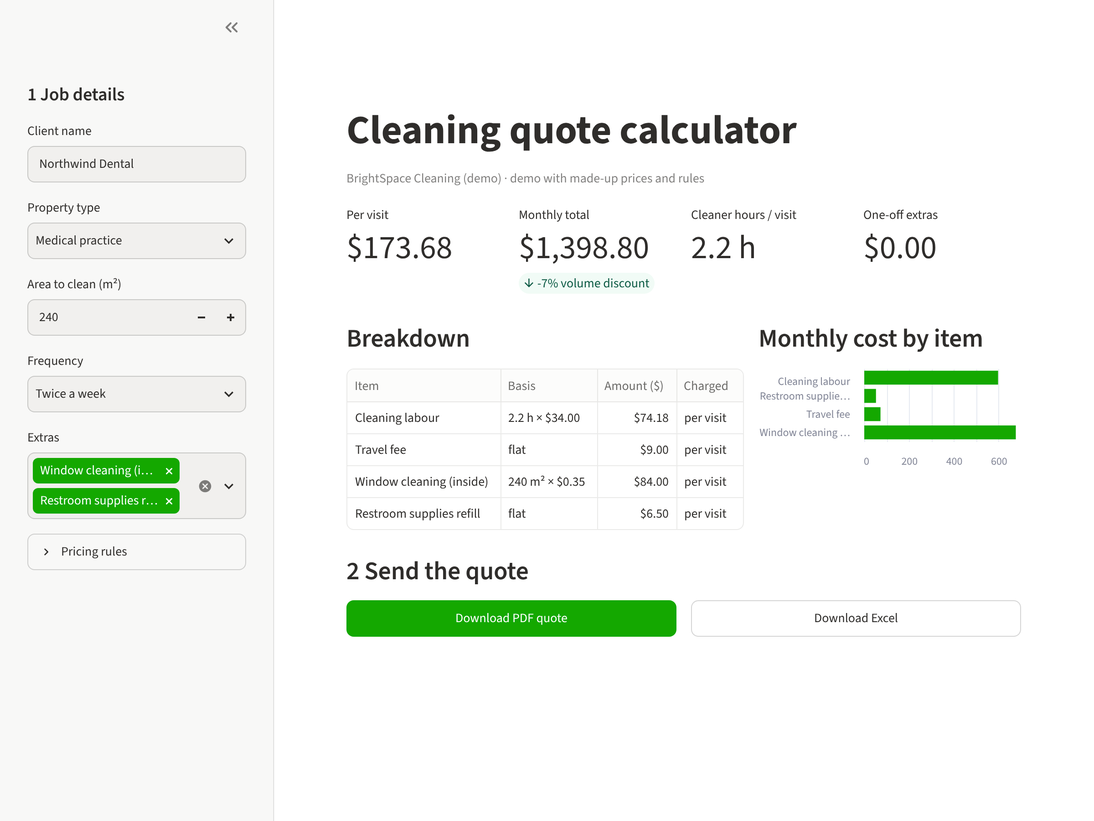
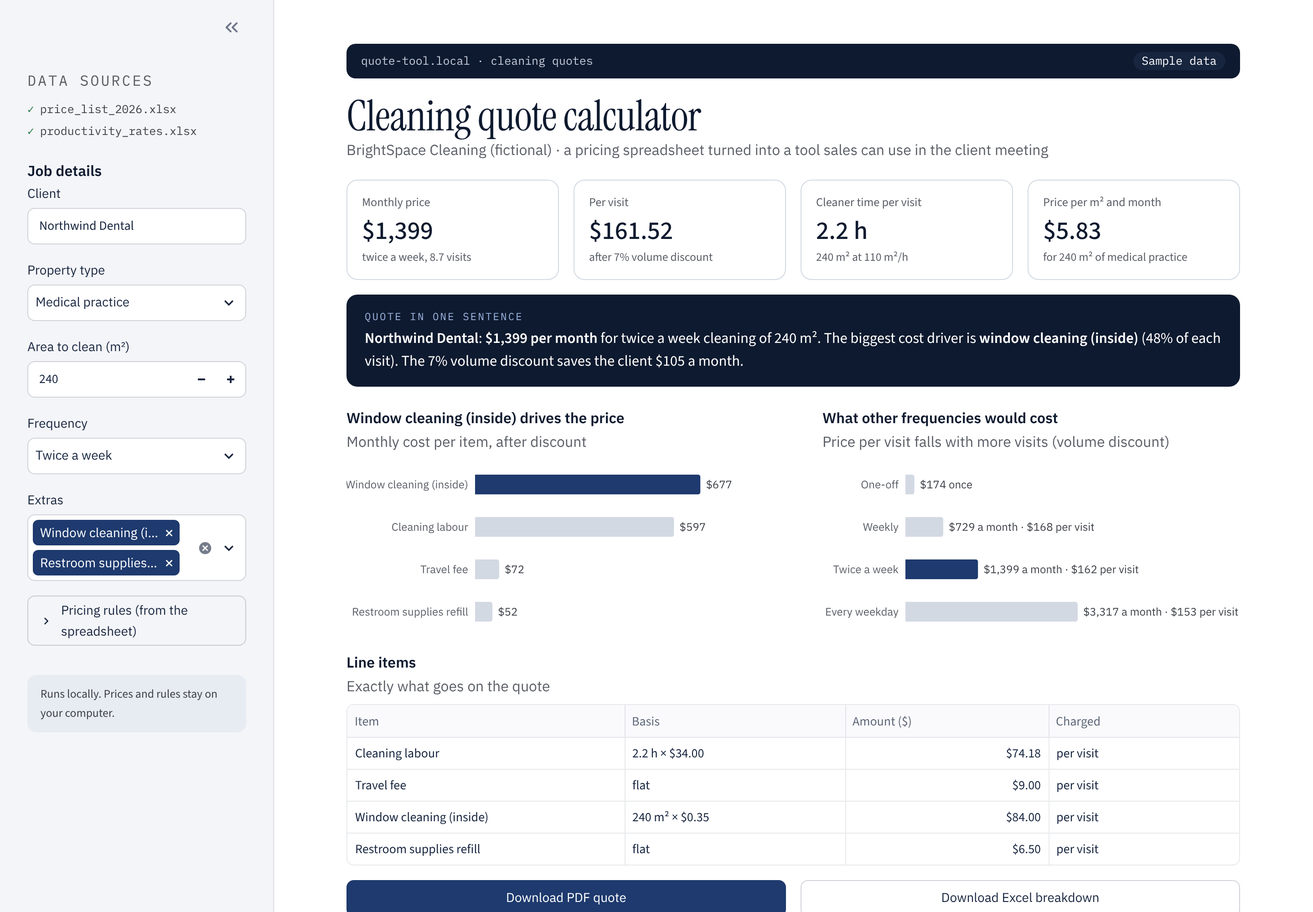
Redesign: dataphil.dev look, key message, KPIs with context, focused charts
Claude-Session: https://claude.ai/code/session_01KQChbQnHaNvjEy2cas2SEG

diff --git a/docs/index.html b/docs/index.html
@@ -16,8 +16,8 @@ mount({
   requirements: ["fpdf2", "openpyxl"],
   entrypoint: "app.py",
   files: {
-  "app.py": "\"\"\"Quote calculator demo for a fictional cleaning company.\n\nDataPhil demo - all company names, prices and rules are made up.\nRun locally:  uv run --with streamlit --with fpdf2 --with pandas --with openpyxl streamlit run app.py\n\"\"\"\nimport io\nfrom datetime import date, timedelta\n\nimport pandas as pd\nimport streamlit as st\nfrom fpdf import FPDF\n\nCOMPANY = \"BrightSpace Cleaning (demo)\"\n\n# ---- Pricing rules: in a real project these come from the client's spreadsheet ----\nPROPERTY_TYPES = {  # m\u00b2 a cleaner manages per hour\n    \"Office\": 180,\n    \"Shop / retail\": 150,\n    \"Medical practice\": 110,\n    \"Apartment building (common areas)\": 200,\n}\nFREQUENCIES = {  # visits per month\n    \"One-off\": 1,\n    \"Weekly\": 4.33,\n    \"Twice a week\": 8.66,\n    \"Every weekday\": 21.7,\n}\nEXTRAS = {  # name: (type, price)  type = \"per_visit\" | \"per_m2\" | \"one_off\"\n    \"Window cleaning (inside)\": (\"per_m2\", 0.35),\n    \"Carpet deep clean\": (\"one_off\", 180.0),\n    \"Kitchen / break room\": (\"per_visit\", 12.0),\n    \"Restroom supplies refill\": (\"per_visit\", 6.5),\n}\nDEFAULT_RATE = 34.0      # $ per cleaner hour\nMIN_PER_VISIT = 60.0     # minimum charge per visit\nTRAVEL_FEE = 9.0         # per visit\n\n\ndef volume_discount(visits_per_month: float) -> float:\n    if visits_per_month >= 20:\n        return 0.12\n    if visits_per_month >= 8:\n        return 0.07\n    if visits_per_month >= 4:\n        return 0.03\n    return 0.0\n\n\ndef calculate(area, ptype, freq, extras, rate):\n    hours = area / PROPERTY_TYPES[ptype]\n    labour = max(hours * rate, MIN_PER_VISIT)\n    lines = [(\"Cleaning labour\", f\"{hours:.1f} h \u00d7 ${rate:.2f}\", labour, \"per visit\"),\n             (\"Travel fee\", \"flat\", TRAVEL_FEE, \"per visit\")]\n    one_off = 0.0\n    for name in extras:\n        kind, price = EXTRAS[name]\n        if kind == \"per_m2\":\n            lines.append((name, f\"{area:.0f} m\u00b2 \u00d7 ${price:.2f}\", area * price, \"per visit\"))\n        elif kind == \"per_visit\":\n            lines.append((name, \"flat\", price, \"per visit\"))\n        else:\n            lines.append((name, \"once\", price, \"one-off\"))\n            one_off += price\n    per_visit = sum(l[2] for l in lines if l[3] == \"per visit\")\n    visits = FREQUENCIES[freq]\n    disc = volume_discount(visits)\n    monthly = per_visit * visits * (1 - disc)\n    df = pd.DataFrame(lines, columns=[\"Item\", \"Basis\", \"Amount ($)\", \"Charged\"])\n    return df, hours, per_visit, visits, disc, monthly, one_off\n\n\ndef pdf_quote(client, ptype, area, freq, df, per_visit, visits, disc, monthly, one_off) -> bytes:\n    pdf = FPDF()\n    pdf.add_page()\n    pdf.set_font(\"Helvetica\", \"B\", 18)\n    pdf.cell(0, 10, COMPANY, new_x=\"LMARGIN\", new_y=\"NEXT\")\n    pdf.set_font(\"Helvetica\", \"\", 10)\n    pdf.cell(0, 6, f\"Quote for: {client or 'Client'}    Date: {date.today():%d %b %Y}    \"\n                   f\"Valid until: {date.today() + timedelta(days=30):%d %b %Y}\", new_x=\"LMARGIN\", new_y=\"NEXT\")\n    pdf.cell(0, 6, f\"{ptype}, {area:.0f} m\u00b2, {freq.lower()}\", new_x=\"LMARGIN\", new_y=\"NEXT\")\n    pdf.ln(4)\n    pdf.set_font(\"Helvetica\", \"B\", 10)\n    for w, h in zip((80, 50, 30, 30), (\"Item\", \"Basis\", \"Amount\", \"Charged\")):\n        pdf.cell(w, 8, h, border=\"B\")\n    pdf.ln()\n    pdf.set_font(\"Helvetica\", \"\", 10)\n    for _, r in df.iterrows():\n        pdf.cell(80, 7, r[\"Item\"])\n        pdf.cell(50, 7, r[\"Basis\"].replace(\"\u00d7\", \"x\"))\n        pdf.cell(30, 7, f\"${r['Amount ($)']:.2f}\", align=\"R\")\n        pdf.cell(30, 7, r[\"Charged\"])\n        pdf.ln()\n    pdf.ln(4)\n    pdf.set_font(\"Helvetica\", \"B\", 11)\n    pdf.cell(0, 7, f\"Per visit: ${per_visit:.2f}   x {visits:.1f} visits/month   \"\n                   f\"volume discount {disc:.0%}\", new_x=\"LMARGIN\", new_y=\"NEXT\")\n    pdf.set_font(\"Helvetica\", \"B\", 14)\n    pdf.cell(0, 9, f\"Monthly total: ${monthly:,.2f}\", new_x=\"LMARGIN\", new_y=\"NEXT\")\n    if one_off:\n        pdf.set_font(\"Helvetica\", \"\", 11)\n        pdf.cell(0, 7, f\"Plus one-off services: ${one_off:,.2f}\", new_x=\"LMARGIN\", new_y=\"NEXT\")\n    pdf.ln(6)\n    pdf.set_font(\"Helvetica\", \"I\", 8)\n    pdf.multi_cell(0, 5, \"Demo quote with made-up prices. Built by DataPhil as an example of a \"\n                         \"spreadsheet turned into a simple web tool.\")\n    return bytes(pdf.output())\n\n\ndef excel_file(df, summary: dict) -> bytes:\n    buf = io.BytesIO()\n    with pd.ExcelWriter(buf, engine=\"openpyxl\") as xw:\n        df.to_excel(xw, sheet_name=\"Breakdown\", index=False)\n        pd.DataFrame(list(summary.items()), columns=[\"Key\", \"Value\"]).to_excel(\n            xw, sheet_name=\"Summary\", index=False)\n    return buf.getvalue()\n\n\n# ---------------------------------- UI ----------------------------------\nst.set_page_config(page_title=\"Quote calculator (demo)\", page_icon=\"\ud83e\uddfd\", layout=\"wide\")\nst.title(\"Cleaning quote calculator\")\nst.caption(f\"{COMPANY} \u00b7 demo with made-up prices and rules\")\n\nwith st.sidebar:\n    st.header(\"1  Job details\")\n    client = st.text_input(\"Client name\", \"Northwind Dental\")\n    ptype = st.selectbox(\"Property type\", list(PROPERTY_TYPES), index=2)\n    area = st.number_input(\"Area to clean (m\u00b2)\", 20, 5000, 240, step=10)\n    freq = st.selectbox(\"Frequency\", list(FREQUENCIES), index=2)\n    extras = st.multiselect(\"Extras\", list(EXTRAS), default=[\"Window cleaning (inside)\", \"Restroom supplies refill\"])\n    with st.expander(\"Pricing rules\"):\n        rate = st.slider(\"Cleaner rate ($/h)\", 25.0, 50.0, DEFAULT_RATE, 0.5)\n        st.write(f\"Minimum per visit: ${MIN_PER_VISIT:.0f} \u00b7 travel fee ${TRAVEL_FEE:.0f}\")\n        st.write(\"Volume discount: 3 % from weekly, 7 % from twice a week, 12 % daily\")\n\ndf, hours, per_visit, visits, disc, monthly, one_off = calculate(area, ptype, freq, extras, rate)\n\nc1, c2, c3, c4 = st.columns(4)\nc1.metric(\"Per visit\", f\"${per_visit:,.2f}\")\nc2.metric(\"Monthly total\", f\"${monthly:,.2f}\", f\"-{disc:.0%} volume discount\" if disc else None, delta_color=\"inverse\")\nc3.metric(\"Cleaner hours / visit\", f\"{hours:.1f} h\")\nc4.metric(\"One-off extras\", f\"${one_off:,.2f}\")\n\nleft, right = st.columns([3, 2])\nwith left:\n    st.subheader(\"Breakdown\")\n    st.dataframe(df, hide_index=True, use_container_width=True,\n                 column_config={\"Amount ($)\": st.column_config.NumberColumn(format=\"$%.2f\")})\nwith right:\n    st.subheader(\"Monthly cost by item\")\n    per_month = df[df[\"Charged\"] == \"per visit\"].set_index(\"Item\")[\"Amount ($)\"] * visits * (1 - disc)\n    st.bar_chart(per_month, horizontal=True, color=\"#14a800\")\n\nst.subheader(\"2  Send the quote\")\nb1, b2 = st.columns(2)\nb1.download_button(\"Download PDF quote\", pdf_quote(client, ptype, area, freq, df, per_visit, visits,\n                                                    disc, monthly, one_off),\n                   file_name=f\"quote_{client.replace(' ', '_') or 'client'}.pdf\", mime=\"application/pdf\",\n                   type=\"primary\", use_container_width=True)\nb2.download_button(\"Download Excel\", excel_file(df, {\"Client\": client, \"Property\": ptype, \"Area m2\": area,\n                                                     \"Frequency\": freq, \"Per visit $\": round(per_visit, 2),\n                                                     \"Monthly $\": round(monthly, 2), \"One-off $\": one_off}),\n                   file_name=\"quote_breakdown.xlsx\", use_container_width=True)\n",
-  ".streamlit/config.toml": "[theme]\nprimaryColor = \"#14a800\"\nbase = \"light\"\n\n[client]\ntoolbarMode = \"minimal\"\n\n[browser]\ngatherUsageStats = false\n"
+  "app.py": "\"\"\"Quote calculator demo for a fictional cleaning company.\n\nDataPhil demo - all company names, prices and rules are made up.\nRun locally:  uv run --with streamlit --with fpdf2 --with pandas --with openpyxl streamlit run app.py\n\"\"\"\nimport html\nimport io\nfrom datetime import date, timedelta\n\nimport altair as alt\nimport pandas as pd\nimport streamlit as st\nfrom fpdf import FPDF\n\nCOMPANY = \"BrightSpace Cleaning (demo)\"\n\n# ---- Pricing rules: in a real project these come from the client's spreadsheet ----\nPROPERTY_TYPES = {  # m\u00b2 a cleaner manages per hour\n    \"Office\": 180,\n    \"Shop / retail\": 150,\n    \"Medical practice\": 110,\n    \"Apartment building (common areas)\": 200,\n}\nFREQUENCIES = {  # visits per month\n    \"One-off\": 1,\n    \"Weekly\": 4.33,\n    \"Twice a week\": 8.66,\n    \"Every weekday\": 21.7,\n}\nEXTRAS = {  # name: (type, price)  type = \"per_visit\" | \"per_m2\" | \"one_off\"\n    \"Window cleaning (inside)\": (\"per_m2\", 0.35),\n    \"Carpet deep clean\": (\"one_off\", 180.0),\n    \"Kitchen / break room\": (\"per_visit\", 12.0),\n    \"Restroom supplies refill\": (\"per_visit\", 6.5),\n}\nDEFAULT_RATE = 34.0      # $ per cleaner hour\nMIN_PER_VISIT = 60.0     # minimum charge per visit\nTRAVEL_FEE = 9.0         # per visit\n\n\ndef volume_discount(visits_per_month: float) -> float:\n    if visits_per_month >= 20:\n        return 0.12\n    if visits_per_month >= 8:\n        return 0.07\n    if visits_per_month >= 4:\n        return 0.03\n    return 0.0\n\n\ndef calculate(area, ptype, freq, extras, rate):\n    hours = area / PROPERTY_TYPES[ptype]\n    labour = max(hours * rate, MIN_PER_VISIT)\n    lines = [(\"Cleaning labour\", f\"{hours:.1f} h \u00d7 ${rate:.2f}\", labour, \"per visit\"),\n             (\"Travel fee\", \"flat\", TRAVEL_FEE, \"per visit\")]\n    one_off = 0.0\n    for name in extras:\n        kind, price = EXTRAS[name]\n        if kind == \"per_m2\":\n            lines.append((name, f\"{area:.0f} m\u00b2 \u00d7 ${price:.2f}\", area * price, \"per visit\"))\n        elif kind == \"per_visit\":\n            lines.append((name, \"flat\", price, \"per visit\"))\n        else:\n            lines.append((name, \"once\", price, \"one-off\"))\n            one_off += price\n    per_visit = sum(l[2] for l in lines if l[3] == \"per visit\")\n    visits = FREQUENCIES[freq]\n    disc = volume_discount(visits)\n    monthly = per_visit * visits * (1 - disc)\n    df = pd.DataFrame(lines, columns=[\"Item\", \"Basis\", \"Amount ($)\", \"Charged\"])\n    return df, hours, per_visit, visits, disc, monthly, one_off\n\n\ndef pdf_quote(client, ptype, area, freq, df, per_visit, visits, disc, monthly, one_off) -> bytes:\n    pdf = FPDF()\n    pdf.add_page()\n    pdf.set_font(\"Helvetica\", \"B\", 18)\n    pdf.cell(0, 10, COMPANY, new_x=\"LMARGIN\", new_y=\"NEXT\")\n    pdf.set_font(\"Helvetica\", \"\", 10)\n    pdf.cell(0, 6, f\"Quote for: {client or 'Client'}    Date: {date.today():%d %b %Y}    \"\n                   f\"Valid until: {date.today() + timedelta(days=30):%d %b %Y}\", new_x=\"LMARGIN\", new_y=\"NEXT\")\n    pdf.cell(0, 6, f\"{ptype}, {area:.0f} m\u00b2, {freq.lower()}\", new_x=\"LMARGIN\", new_y=\"NEXT\")\n    pdf.ln(4)\n    pdf.set_font(\"Helvetica\", \"B\", 10)\n    for w, h in zip((80, 50, 30, 30), (\"Item\", \"Basis\", \"Amount\", \"Charged\")):\n        pdf.cell(w, 8, h, border=\"B\")\n    pdf.ln()\n    pdf.set_font(\"Helvetica\", \"\", 10)\n    for _, r in df.iterrows():\n        pdf.cell(80, 7, r[\"Item\"])\n        pdf.cell(50, 7, r[\"Basis\"].replace(\"\u00d7\", \"x\"))\n        pdf.cell(30, 7, f\"${r['Amount ($)']:.2f}\", align=\"R\")\n        pdf.cell(30, 7, r[\"Charged\"])\n        pdf.ln()\n    pdf.ln(4)\n    pdf.set_font(\"Helvetica\", \"B\", 11)\n    pdf.cell(0, 7, f\"Per visit: ${per_visit:.2f}   x {visits:.1f} visits/month   \"\n                   f\"volume discount {disc:.0%}\", new_x=\"LMARGIN\", new_y=\"NEXT\")\n    pdf.set_font(\"Helvetica\", \"B\", 14)\n    pdf.cell(0, 9, f\"Monthly total: ${monthly:,.2f}\", new_x=\"LMARGIN\", new_y=\"NEXT\")\n    if one_off:\n        pdf.set_font(\"Helvetica\", \"\", 11)\n        pdf.cell(0, 7, f\"Plus one-off services: ${one_off:,.2f}\", new_x=\"LMARGIN\", new_y=\"NEXT\")\n    pdf.ln(6)\n    pdf.set_font(\"Helvetica\", \"I\", 8)\n    pdf.multi_cell(0, 5, \"Demo quote with made-up prices. Built by DataPhil as an example of a \"\n                         \"spreadsheet turned into a simple web tool.\")\n    return bytes(pdf.output())\n\n\ndef excel_file(df, summary: dict) -> bytes:\n    buf = io.BytesIO()\n    with pd.ExcelWriter(buf, engine=\"openpyxl\") as xw:\n        df.to_excel(xw, sheet_name=\"Breakdown\", index=False)\n        pd.DataFrame(list(summary.items()), columns=[\"Key\", \"Value\"]).to_excel(\n            xw, sheet_name=\"Summary\", index=False)\n    return buf.getvalue()\n\n\n# ---------------------------------- look & feel (same palette as dataphil.dev) ----------------------------------\nNAVY, INK, BODY, MUTED = \"#1E3A6E\", \"#0E1A2F\", \"#3D4047\", \"#5A5E66\"\nGREY, LIGHT, PAPER, WARN = \"#9AA3B2\", \"#D3D9E3\", \"#F4F5F8\", \"#B4531A\"\n\nCSS = \"\"\"<style>\n@import url('https://fonts.googleapis.com/css2?family=IBM+Plex+Mono:wght@400;500&family=IBM+Plex+Sans:wght@400;500;600&family=Instrument+Serif&display=swap');\nhtml, body, .stApp, .stMarkdown, p, label, button, input, textarea, select, li {font-family:'IBM Plex Sans',system-ui,sans-serif;}\n.block-container {padding-top:2rem; max-width:1200px;}\nh1 {font-family:'Instrument Serif',Georgia,serif !important; font-weight:400 !important; font-size:2.9rem !important;\n    color:#0E1A2F !important; letter-spacing:-.01em; line-height:1.05 !important; padding:0 !important;}\n.dp-bar {font-family:'IBM Plex Mono',monospace; font-size:.78rem; color:#C3CCDB; background:#0E1A2F;\n    padding:.55rem 1rem; border-radius:10px; display:flex; justify-content:space-between; margin-bottom:1.1rem;}\n.dp-bar b {font-weight:400; color:#fff; background:#17253F; border-radius:20px; padding:0 .6rem;}\n.dp-lead {color:#5A5E66; font-size:1rem; margin:.2rem 0 1.2rem;}\n.dp-kpi {background:#fff; border:1px solid #D3D9E3; border-radius:12px; padding:.85rem 1rem; height:100%;}\n.dp-kpi .l {font-size:.82rem; color:#5A5E66;}\n.dp-kpi .v {font-size:1.75rem; font-weight:500; color:#0E1A2F; line-height:1.25; margin:.15rem 0;}\n.dp-kpi .c {font-size:.8rem; color:#5A5E66;} .dp-kpi .c.warn {color:#B4531A;}\n.dp-msg {background:#0E1A2F; color:#fff; border-radius:12px; padding:1rem 1.25rem; margin:1rem 0 1.4rem; font-size:1.02rem; line-height:1.5;}\n.dp-msg .k {display:block; font-family:'IBM Plex Mono',monospace; font-size:.7rem; letter-spacing:.14em; color:#9DB6E3; margin-bottom:.2rem;}\n.dp-h {font-weight:600; font-size:1.08rem; color:#0E1A2F; margin:.6rem 0 0;}\n.dp-sub {font-size:.84rem; color:#5A5E66; margin:0 0 .4rem;}\n.dp-steps {display:grid; grid-template-columns:repeat(3,1fr); gap:12px; margin-top:1.4rem;}\n.dp-steps div {border:1px solid #D3D9E3; border-radius:12px; padding:.9rem 1rem; font-size:.88rem; color:#3D4047; background:#fff;}\n.dp-steps div.r {background:#1E3A6E; color:#fff; border-color:#1E3A6E;}\n.dp-steps span {display:block; font-family:'IBM Plex Mono',monospace; font-size:.68rem; letter-spacing:.14em; color:#5A5E66; margin-bottom:.3rem;}\n.dp-steps div.r span {color:#9DB6E3;}\n.dp-src {font-family:'IBM Plex Mono',monospace; font-size:.78rem; color:#3D4047; line-height:1.9;}\n.dp-src i {color:#2E7D4F; font-style:normal; margin-right:.4rem;}\n.dp-note {background:#E7EBF2; border-radius:10px; padding:.7rem .9rem; font-size:.8rem; color:#3D4047; margin-top:1rem;}\n@media (max-width:700px){ .dp-steps {grid-template-columns:1fr;} h1 {font-size:2.2rem !important;} }\n</style>\"\"\"\n\n\ndef esc(s) -> str:\n    return html.escape(str(s))\n\n\ndef bar(left: str, right: str = \"Sample data\"):\n    st.markdown(f'<div class=\"dp-bar\"><span>{esc(left)}</span><b>{esc(right)}</b></div>', unsafe_allow_html=True)\n\n\ndef kpi(col, label, value, context=\"\", warn=False):\n    col.markdown(f'<div class=\"dp-kpi\"><div class=\"l\">{esc(label)}</div><div class=\"v\">{esc(value)}</div>'\n                 f'<div class=\"c{\" warn\" if warn else \"\"}\">{\"\u26a0 \" if warn else \"\"}{esc(context)}</div></div>',\n                 unsafe_allow_html=True)\n\n\ndef message(text_html: str, label=\"MESSAGE FOR THE MEETING\"):\n    st.markdown(f'<div class=\"dp-msg\"><span class=\"k\">{label}</span>{text_html}</div>', unsafe_allow_html=True)\n\n\ndef heading(title: str, sub: str = \"\"):\n    st.markdown(f'<p class=\"dp-h\">{esc(title)}</p>' + (f'<p class=\"dp-sub\">{esc(sub)}</p>' if sub else \"\"),\n                unsafe_allow_html=True)\n\n\ndef sources(files):\n    st.markdown(\"<p class='dp-sub' style='letter-spacing:.12em;font-family:IBM Plex Mono'>DATA SOURCES</p>\"\n                + \"\".join(f\"<div class='dp-src'><i>\u2713</i>{esc(f)}</div>\" for f in files), unsafe_allow_html=True)\n\n\ndef steps(before: str, tool: str, result: str):\n    st.markdown(f'<div class=\"dp-steps\"><div><span>1 \u00b7 BEFORE</span>{before}</div><div><span>2 \u00b7 THE TOOL</span>{tool}'\n                f'</div><div class=\"r\"><span>3 \u00b7 RESULT</span>{result}</div></div>', unsafe_allow_html=True)\n\n\ndef chart_style(chart):\n    return (chart.properties(padding={\"left\": 8, \"right\": 8, \"top\": 4, \"bottom\": 4}).configure_view(strokeWidth=0)\n            .configure_axis(labelColor=MUTED, titleColor=MUTED, labelFont=\"IBM Plex Sans\", titleFont=\"IBM Plex Sans\",\n                            labelFontSize=12, titleFontSize=12, gridColor=\"#EEF1F5\", domainColor=LIGHT, tickColor=LIGHT)\n            .configure_text(font=\"IBM Plex Sans\"))\n\n\n# ---------------------------------- UI ----------------------------------\nst.set_page_config(page_title=\"Quote calculator (demo)\", page_icon=\"\ud83e\uddfd\", layout=\"wide\")\nst.markdown(CSS, unsafe_allow_html=True)\n\nwith st.sidebar:\n    sources([\"price_list_2026.xlsx\", \"productivity_rates.xlsx\"])\n    st.markdown(\"<p class='dp-h' style='margin-top:1.2rem'>Job details</p>\", unsafe_allow_html=True)\n    client = st.text_input(\"Client\", \"Northwind Dental\")\n    ptype = st.selectbox(\"Property type\", list(PROPERTY_TYPES), index=2)\n    area = st.number_input(\"Area to clean (m\u00b2)\", 20, 5000, 240, step=10)\n    freq = st.selectbox(\"Frequency\", list(FREQUENCIES), index=2)\n    extras = st.multiselect(\"Extras\", list(EXTRAS), default=[\"Window cleaning (inside)\", \"Restroom supplies refill\"])\n    with st.expander(\"Pricing rules (from the spreadsheet)\"):\n        rate = st.slider(\"Cleaner rate ($/h)\", 25.0, 50.0, DEFAULT_RATE, 0.5)\n        st.caption(f\"Minimum ${MIN_PER_VISIT:.0f} per visit \u00b7 travel fee ${TRAVEL_FEE:.0f} \u00b7 volume discount \"\n                   \"3 % weekly, 7 % twice a week, 12 % daily\")\n    st.markdown(\"<div class='dp-note'>Runs locally. Prices and rules stay on your computer.</div>\",\n                unsafe_allow_html=True)\n\ndf, hours, per_visit, visits, disc, monthly, one_off = calculate(area, ptype, freq, extras, rate)\nlabour_hit_min = hours * rate < MIN_PER_VISIT\n\n# the story: what drives the price, and what would another frequency cost?\npv = df[df[\"Charged\"] == \"per visit\"].copy()\npv[\"Monthly\"] = pv[\"Amount ($)\"] * visits * (1 - disc)\npv[\"Share\"] = pv[\"Amount ($)\"] / per_visit\ntop = pv.sort_values(\"Monthly\", ascending=False).iloc[0]\nalt_rows = []\nfor f, v in FREQUENCIES.items():\n    _, _, pvv, vv, dd, mm, _ = calculate(area, ptype, f, extras, rate)\n    alt_rows.append({\"Frequency\": f, \"Monthly\": mm, \"Per visit\": pvv * (1 - dd), \"Chosen\": f == freq})\nfreq_df = pd.DataFrame(alt_rows)\nper_visit_net = per_visit * (1 - disc)\n\nbar(\"quote-tool.local \u00b7 cleaning quotes\")\nst.title(\"Cleaning quote calculator\")\nst.markdown(f\"<p class='dp-lead'>BrightSpace Cleaning (fictional) \u00b7 a pricing spreadsheet turned into a tool \"\n            f\"sales can use in the client meeting</p>\", unsafe_allow_html=True)\n\nk1, k2, k3, k4 = st.columns(4)\nkpi(k1, \"Monthly price\", f\"${monthly:,.0f}\", f\"{freq.lower()}, {visits:.1f} visits\")\nkpi(k2, \"Per visit\", f\"${per_visit_net:,.2f}\",\n    f\"after {disc:.0%} volume discount\" if disc else \"no volume discount at this frequency\")\nkpi(k3, \"Cleaner time per visit\", f\"{hours:.1f} h\",\n    f\"minimum charge of ${MIN_PER_VISIT:.0f} applies\" if labour_hit_min else f\"{area} m\u00b2 at {PROPERTY_TYPES[ptype]} m\u00b2/h\",\n    warn=labour_hit_min)\nkpi(k4, \"Price per m\u00b2 and month\", f\"${monthly / area:,.2f}\",\n    f\"plus ${one_off:,.0f} one-off services\" if one_off else f\"for {area} m\u00b2 of {ptype.lower()}\")\n\nweekly = freq_df.set_index(\"Frequency\").loc[\"Weekly\", \"Per visit\"] if freq != \"Weekly\" else None\nmsg = (f\"<b>{esc(client) or 'This client'}</b>: <b>${monthly:,.0f} per month</b> for {freq.lower()} cleaning of \"\n       f\"{area} m\u00b2. The biggest cost driver is <b>{esc(top['Item'].lower())}</b> ({top['Share']:.0%} of each visit).\")\nif disc:\n    msg += f\" The {disc:.0%} volume discount saves the client ${per_visit * visits * disc:,.0f} a month.\"\nif labour_hit_min:\n    msg += \" The job is so small that the minimum charge applies; offer a lower frequency or bundle sites.\"\nmessage(msg, \"QUOTE IN ONE SENTENCE\")\n\nleft, right = st.columns([1, 1], gap=\"large\")\nwith left:\n    heading(f\"{top['Item']} drives the price\", \"Monthly cost per item, after discount\")\n    order = pv.sort_values(\"Monthly\", ascending=False)[\"Item\"].tolist()\n    base = alt.Chart(pv).encode(\n        y=alt.Y(\"Item:N\", sort=order, title=None, axis=alt.Axis(labelLimit=220, ticks=False, domain=False, labelPadding=8)),\n        x=alt.X(\"Monthly:Q\", title=None, axis=None, scale=alt.Scale(domain=[0, pv[\"Monthly\"].max() * 1.25])))\n    bars = base.mark_bar(cornerRadiusEnd=3, height=22).encode(\n        color=alt.condition(alt.datum.Item == top[\"Item\"], alt.value(NAVY), alt.value(LIGHT)),\n        tooltip=[alt.Tooltip(\"Item\"), alt.Tooltip(\"Monthly\", format=\"$,.0f\")])\n    labels = base.mark_text(align=\"left\", dx=6, color=BODY, fontSize=12).encode(text=alt.Text(\"Monthly:Q\", format=\"$,.0f\"))\n    st.altair_chart(chart_style((bars + labels).properties(height=46 * len(pv) + 10)), use_container_width=True)\nwith right:\n    cheaper = freq_df[(freq_df[\"Per visit\"] < per_visit_net - 0.01)]\n    sub = (\"Price per visit falls with more visits (volume discount)\" if len(cheaper)\n           else \"This is already the lowest price per visit\")\n    heading(\"What other frequencies would cost\", sub)\n    fb = alt.Chart(freq_df).encode(\n        y=alt.Y(\"Frequency:N\", sort=list(FREQUENCIES), title=None, axis=alt.Axis(labelLimit=220, ticks=False, domain=False, labelPadding=8)),\n        x=alt.X(\"Monthly:Q\", title=None, axis=None, scale=alt.Scale(domain=[0, freq_df[\"Monthly\"].max() * 1.9])))\n    fbars = fb.mark_bar(cornerRadiusEnd=3, height=22).encode(\n        color=alt.condition(alt.datum.Chosen, alt.value(NAVY), alt.value(LIGHT)),\n        tooltip=[alt.Tooltip(\"Frequency\"), alt.Tooltip(\"Monthly\", format=\"$,.0f\"),\n                 alt.Tooltip(\"Per visit\", format=\"$,.2f\")])\n    ftext = fb.mark_text(align=\"left\", dx=6, color=BODY, fontSize=12).encode(\n        text=alt.Text(\"label:N\")).transform_calculate(\n        label=\"datum.Frequency == 'One-off' ? format(datum.Monthly, '$,.0f') + ' once' : format(datum.Monthly, '$,.0f') + ' a month  \u00b7  ' + format(datum['Per visit'], '$,.0f') + ' per visit'\")\n    st.altair_chart(chart_style((fbars + ftext).properties(height=46 * len(freq_df) + 10)),\n                    use_container_width=True)\n\nheading(\"Line items\", \"Exactly what goes on the quote\")\nst.dataframe(df, hide_index=True, use_container_width=True,\n             column_config={\"Amount ($)\": st.column_config.NumberColumn(format=\"$%.2f\")})\n\nb1, b2 = st.columns(2)\nb1.download_button(\"Download PDF quote\", pdf_quote(client, ptype, area, freq, df, per_visit, visits,\n                                                    disc, monthly, one_off),\n                   file_name=f\"quote_{client.replace(' ', '_') or 'client'}.pdf\", mime=\"application/pdf\",\n                   type=\"primary\", use_container_width=True)\nb2.download_button(\"Download Excel breakdown\", excel_file(df, {\"Client\": client, \"Property\": ptype, \"Area m2\": area,\n                                                               \"Frequency\": freq, \"Per visit $\": round(per_visit, 2),\n                                                               \"Monthly $\": round(monthly, 2), \"One-off $\": one_off}),\n                   file_name=\"quote_breakdown.xlsx\", use_container_width=True)\n\nsteps(\"Prices lived in a spreadsheet only one person understood. Every quote took a call to the office.\",\n      \"Reads the same rules, asks five questions, and produces the quote, the PDF and the Excel file.\",\n      \"Sales quotes on the spot. Try it: switch to <b>every weekday</b> and see the discount kick in.\")\n",
+  ".streamlit/config.toml": "[theme]\nprimaryColor = \"#1E3A6E\"\nbase = \"light\"\nbackgroundColor = \"#FFFFFF\"\nsecondaryBackgroundColor = \"#F4F5F8\"\ntextColor = \"#17253F\"\n\n[client]\ntoolbarMode = \"minimal\"\n\n[browser]\ngatherUsageStats = false\n"
 }
 }, document.getElementById("root"));
 </script>

diff --git a/app.py b/app.py
@@ -3,9 +3,11 @@
 DataPhil demo - all company names, prices and rules are made up.
 Run locally:  uv run --with streamlit --with fpdf2 --with pandas --with openpyxl streamlit run app.py
 """
+import html
 import io
 from datetime import date, timedelta
 
+import altair as alt
 import pandas as pd
 import streamlit as st
 from fpdf import FPDF
@@ -115,48 +117,182 @@ def excel_file(df, summary: dict) -> bytes:
     return buf.getvalue()
 
 
+# ---------------------------------- look & feel (same palette as dataphil.dev) ----------------------------------
+NAVY, INK, BODY, MUTED = "#1E3A6E", "#0E1A2F", "#3D4047", "#5A5E66"
+GREY, LIGHT, PAPER, WARN = "#9AA3B2", "#D3D9E3", "#F4F5F8", "#B4531A"
+
+CSS = """<style>
+@import url('https://fonts.googleapis.com/css2?family=IBM+Plex+Mono:wght@400;500&family=IBM+Plex+Sans:wght@400;500;600&family=Instrument+Serif&display=swap');
+html, body, .stApp, .stMarkdown, p, label, button, input, textarea, select, li {font-family:'IBM Plex Sans',system-ui,sans-serif;}
+.block-container {padding-top:2rem; max-width:1200px;}
+h1 {font-family:'Instrument Serif',Georgia,serif !important; font-weight:400 !important; font-size:2.9rem !important;
+    color:#0E1A2F !important; letter-spacing:-.01em; line-height:1.05 !important; padding:0 !important;}
+.dp-bar {font-family:'IBM Plex Mono',monospace; font-size:.78rem; color:#C3CCDB; background:#0E1A2F;
+    padding:.55rem 1rem; border-radius:10px; display:flex; justify-content:space-between; margin-bottom:1.1rem;}
+.dp-bar b {font-weight:400; color:#fff; background:#17253F; border-radius:20px; padding:0 .6rem;}
+.dp-lead {color:#5A5E66; font-size:1rem; margin:.2rem 0 1.2rem;}
+.dp-kpi {background:#fff; border:1px solid #D3D9E3; border-radius:12px; padding:.85rem 1rem; height:100%;}
+.dp-kpi .l {font-size:.82rem; color:#5A5E66;}
+.dp-kpi .v {font-size:1.75rem; font-weight:500; color:#0E1A2F; line-height:1.25; margin:.15rem 0;}
+.dp-kpi .c {font-size:.8rem; color:#5A5E66;} .dp-kpi .c.warn {color:#B4531A;}
+.dp-msg {background:#0E1A2F; color:#fff; border-radius:12px; padding:1rem 1.25rem; margin:1rem 0 1.4rem; font-size:1.02rem; line-height:1.5;}
+.dp-msg .k {display:block; font-family:'IBM Plex Mono',monospace; font-size:.7rem; letter-spacing:.14em; color:#9DB6E3; margin-bottom:.2rem;}
+.dp-h {font-weight:600; font-size:1.08rem; color:#0E1A2F; margin:.6rem 0 0;}
+.dp-sub {font-size:.84rem; color:#5A5E66; margin:0 0 .4rem;}
+.dp-steps {display:grid; grid-template-columns:repeat(3,1fr); gap:12px; margin-top:1.4rem;}
+.dp-steps div {border:1px solid #D3D9E3; border-radius:12px; padding:.9rem 1rem; font-size:.88rem; color:#3D4047; background:#fff;}
+.dp-steps div.r {background:#1E3A6E; color:#fff; border-color:#1E3A6E;}
+.dp-steps span {display:block; font-family:'IBM Plex Mono',monospace; font-size:.68rem; letter-spacing:.14em; color:#5A5E66; margin-bottom:.3rem;}
+.dp-steps div.r span {color:#9DB6E3;}
+.dp-src {font-family:'IBM Plex Mono',monospace; font-size:.78rem; color:#3D4047; line-height:1.9;}
+.dp-src i {color:#2E7D4F; font-style:normal; margin-right:.4rem;}
+.dp-note {background:#E7EBF2; border-radius:10px; padding:.7rem .9rem; font-size:.8rem; color:#3D4047; margin-top:1rem;}
+@media (max-width:700px){ .dp-steps {grid-template-columns:1fr;} h1 {font-size:2.2rem !important;} }
+</style>"""
+
+
+def esc(s) -> str:
+    return html.escape(str(s))
+
+
+def bar(left: str, right: str = "Sample data"):
+    st.markdown(f'<div class="dp-bar"><span>{esc(left)}</span><b>{esc(right)}</b></div>', unsafe_allow_html=True)
+
+
+def kpi(col, label, value, context="", warn=False):
+    col.markdown(f'<div class="dp-kpi"><div class="l">{esc(label)}</div><div class="v">{esc(value)}</div>'
+                 f'<div class="c{" warn" if warn else ""}">{"⚠ " if warn else ""}{esc(context)}</div></div>',
+                 unsafe_allow_html=True)
+
+
+def message(text_html: str, label="MESSAGE FOR THE MEETING"):
+    st.markdown(f'<div class="dp-msg"><span class="k">{label}</span>{text_html}</div>', unsafe_allow_html=True)
+
+
+def heading(title: str, sub: str = ""):
+    st.markdown(f'<p class="dp-h">{esc(title)}</p>' + (f'<p class="dp-sub">{esc(sub)}</p>' if sub else ""),
+                unsafe_allow_html=True)
+
+
+def sources(files):
+    st.markdown("<p class='dp-sub' style='letter-spacing:.12em;font-family:IBM Plex Mono'>DATA SOURCES</p>"
+                + "".join(f"<div class='dp-src'><i>✓</i>{esc(f)}</div>" for f in files), unsafe_allow_html=True)
+
+
+def steps(before: str, tool: str, result: str):
+    st.markdown(f'<div class="dp-steps"><div><span>1 · BEFORE</span>{before}</div><div><span>2 · THE TOOL</span>{tool}'
+                f'</div><div class="r"><span>3 · RESULT</span>{result}</div></div>', unsafe_allow_html=True)
+
+
+def chart_style(chart):
+    return (chart.properties(padding={"left": 8, "right": 8, "top": 4, "bottom": 4}).configure_view(strokeWidth=0)
+            .configure_axis(labelColor=MUTED, titleColor=MUTED, labelFont="IBM Plex Sans", titleFont="IBM Plex Sans",
+                            labelFontSize=12, titleFontSize=12, gridColor="#EEF1F5", domainColor=LIGHT, tickColor=LIGHT)
+            .configure_text(font="IBM Plex Sans"))
+
+
 # ---------------------------------- UI ----------------------------------
 st.set_page_config(page_title="Quote calculator (demo)", page_icon="🧽", layout="wide")
-st.title("Cleaning quote calculator")
-st.caption(f"{COMPANY} · demo with made-up prices and rules")
+st.markdown(CSS, unsafe_allow_html=True)
 
 with st.sidebar:
-    st.header("1  Job details")
-    client = st.text_input("Client name", "Northwind Dental")
+    sources(["price_list_2026.xlsx", "productivity_rates.xlsx"])
+    st.markdown("<p class='dp-h' style='margin-top:1.2rem'>Job details</p>", unsafe_allow_html=True)
+    client = st.text_input("Client", "Northwind Dental")
     ptype = st.selectbox("Property type", list(PROPERTY_TYPES), index=2)
     area = st.number_input("Area to clean (m²)", 20, 5000, 240, step=10)
     freq = st.selectbox("Frequency", list(FREQUENCIES), index=2)
     extras = st.multiselect("Extras", list(EXTRAS), default=["Window cleaning (inside)", "Restroom supplies refill"])
-    with st.expander("Pricing rules"):
+    with st.expander("Pricing rules (from the spreadsheet)"):
         rate = st.slider("Cleaner rate ($/h)", 25.0, 50.0, DEFAULT_RATE, 0.5)
-        st.write(f"Minimum per visit: ${MIN_PER_VISIT:.0f} · travel fee ${TRAVEL_FEE:.0f}")
-        st.write("Volume discount: 3 % from weekly, 7 % from twice a week, 12 % daily")
+        st.caption(f"Minimum ${MIN_PER_VISIT:.0f} per visit · travel fee ${TRAVEL_FEE:.0f} · volume discount "
+                   "3 % weekly, 7 % twice a week, 12 % daily")
+    st.markdown("<div class='dp-note'>Runs locally. Prices and rules stay on your computer.</div>",
+                unsafe_allow_html=True)
 
 df, hours, per_visit, visits, disc, monthly, one_off = calculate(area, ptype, freq, extras, rate)
+labour_hit_min = hours * rate < MIN_PER_VISIT
 
-c1, c2, c3, c4 = st.columns(4)
-c1.metric("Per visit", f"${per_visit:,.2f}")
-c2.metric("Monthly total", f"${monthly:,.2f}", f"-{disc:.0%} volume discount" if disc else None, delta_color="inverse")
-c3.metric("Cleaner hours / visit", f"{hours:.1f} h")
-c4.metric("One-off extras", f"${one_off:,.2f}")
+# the story: what drives the price, and what would another frequency cost?
+pv = df[df["Charged"] == "per visit"].copy()
+pv["Monthly"] = pv["Amount ($)"] * visits * (1 - disc)
+pv["Share"] = pv["Amount ($)"] / per_visit
+top = pv.sort_values("Monthly", ascending=False).iloc[0]
+alt_rows = []
+for f, v in FREQUENCIES.items():
+    _, _, pvv, vv, dd, mm, _ = calculate(area, ptype, f, extras, rate)
+    alt_rows.append({"Frequency": f, "Monthly": mm, "Per visit": pvv * (1 - dd), "Chosen": f == freq})
+freq_df = pd.DataFrame(alt_rows)
+per_visit_net = per_visit * (1 - disc)
 
-left, right = st.columns([3, 2])
+bar("quote-tool.local · cleaning quotes")
+st.title("Cleaning quote calculator")
+st.markdown(f"<p class='dp-lead'>BrightSpace Cleaning (fictional) · a pricing spreadsheet turned into a tool "
+            f"sales can use in the client meeting</p>", unsafe_allow_html=True)
+
+k1, k2, k3, k4 = st.columns(4)
+kpi(k1, "Monthly price", f"${monthly:,.0f}", f"{freq.lower()}, {visits:.1f} visits")
+kpi(k2, "Per visit", f"${per_visit_net:,.2f}",
+    f"after {disc:.0%} volume discount" if disc else "no volume discount at this frequency")
+kpi(k3, "Cleaner time per visit", f"{hours:.1f} h",
+    f"minimum charge of ${MIN_PER_VISIT:.0f} applies" if labour_hit_min else f"{area} m² at {PROPERTY_TYPES[ptype]} m²/h",
+    warn=labour_hit_min)
+kpi(k4, "Price per m² and month", f"${monthly / area:,.2f}",
+    f"plus ${one_off:,.0f} one-off services" if one_off else f"for {area} m² of {ptype.lower()}")
+
+weekly = freq_df.set_index("Frequency").loc["Weekly", "Per visit"] if freq != "Weekly" else None
+msg = (f"<b>{esc(client) or 'This client'}</b>: <b>${monthly:,.0f} per month</b> for {freq.lower()} cleaning of "
+       f"{area} m². The biggest cost driver is <b>{esc(top['Item'].lower())}</b> ({top['Share']:.0%} of each visit).")
+if disc:
+    msg += f" The {disc:.0%} volume discount saves the client ${per_visit * visits * disc:,.0f} a month."
+if labour_hit_min:
+    msg += " The job is so small that the minimum charge applies; offer a lower frequency or bundle sites."
+message(msg, "QUOTE IN ONE SENTENCE")
+
+left, right = st.columns([1, 1], gap="large")
 with left:
-    st.subheader("Breakdown")
-    st.dataframe(df, hide_index=True, use_container_width=True,
-                 column_config={"Amount ($)": st.column_config.NumberColumn(format="$%.2f")})
+    heading(f"{top['Item']} drives the price", "Monthly cost per item, after discount")
+    order = pv.sort_values("Monthly", ascending=False)["Item"].tolist()
+    base = alt.Chart(pv).encode(
+        y=alt.Y("Item:N", sort=order, title=None, axis=alt.Axis(labelLimit=220, ticks=False, domain=False, labelPadding=8)),
+        x=alt.X("Monthly:Q", title=None, axis=None, scale=alt.Scale(domain=[0, pv["Monthly"].max() * 1.25])))
+    bars = base.mark_bar(cornerRadiusEnd=3, height=22).encode(
+        color=alt.condition(alt.datum.Item == top["Item"], alt.value(NAVY), alt.value(LIGHT)),
+        tooltip=[alt.Tooltip("Item"), alt.Tooltip("Monthly", format="$,.0f")])
+    labels = base.mark_text(align="left", dx=6, color=BODY, fontSize=12).encode(text=alt.Text("Monthly:Q", format="$,.0f"))
+    st.altair_chart(chart_style((bars + labels).properties(height=46 * len(pv) + 10)), use_container_width=True)
 with right:
-    st.subheader("Monthly cost by item")
-    per_month = df[df["Charged"] == "per visit"].set_index("Item")["Amount ($)"] * visits * (1 - disc)
-    st.bar_chart(per_month, horizontal=True, color="#14a800")
+    cheaper = freq_df[(freq_df["Per visit"] < per_visit_net - 0.01)]
+    sub = ("Price per visit falls with more visits (volume discount)" if len(cheaper)
+           else "This is already the lowest price per visit")
+    heading("What other frequencies would cost", sub)
+    fb = alt.Chart(freq_df).encode(
+        y=alt.Y("Frequency:N", sort=list(FREQUENCIES), title=None, axis=alt.Axis(labelLimit=220, ticks=False, domain=False, labelPadding=8)),
+        x=alt.X("Monthly:Q", title=None, axis=None, scale=alt.Scale(domain=[0, freq_df["Monthly"].max() * 1.9])))
+    fbars = fb.mark_bar(cornerRadiusEnd=3, height=22).encode(
+        color=alt.condition(alt.datum.Chosen, alt.value(NAVY), alt.value(LIGHT)),
+        tooltip=[alt.Tooltip("Frequency"), alt.Tooltip("Monthly", format="$,.0f"),
+                 alt.Tooltip("Per visit", format="$,.2f")])
+    ftext = fb.mark_text(align="left", dx=6, color=BODY, fontSize=12).encode(
+        text=alt.Text("label:N")).transform_calculate(
+        label="datum.Frequency == 'One-off' ? format(datum.Monthly, '$,.0f') + ' once' : format(datum.Monthly, '$,.0f') + ' a month  ·  ' + format(datum['Per visit'], '$,.0f') + ' per visit'")
+    st.altair_chart(chart_style((fbars + ftext).properties(height=46 * len(freq_df) + 10)),
+                    use_container_width=True)
 
-st.subheader("2  Send the quote")
+heading("Line items", "Exactly what goes on the quote")
+st.dataframe(df, hide_index=True, use_container_width=True,
+             column_config={"Amount ($)": st.column_config.NumberColumn(format="$%.2f")})
+
 b1, b2 = st.columns(2)
 b1.download_button("Download PDF quote", pdf_quote(client, ptype, area, freq, df, per_visit, visits,
                                                     disc, monthly, one_off),
                    file_name=f"quote_{client.replace(' ', '_') or 'client'}.pdf", mime="application/pdf",
                    type="primary", use_container_width=True)
-b2.download_button("Download Excel", excel_file(df, {"Client": client, "Property": ptype, "Area m2": area,
-                                                     "Frequency": freq, "Per visit $": round(per_visit, 2),
-                                                     "Monthly $": round(monthly, 2), "One-off $": one_off}),
+b2.download_button("Download Excel breakdown", excel_file(df, {"Client": client, "Property": ptype, "Area m2": area,
+                                                               "Frequency": freq, "Per visit $": round(per_visit, 2),
+                                                               "Monthly $": round(monthly, 2), "One-off $": one_off}),
                    file_name="quote_breakdown.xlsx", use_container_width=True)
+
+steps("Prices lived in a spreadsheet only one person understood. Every quote took a call to the office.",
+      "Reads the same rules, asks five questions, and produces the quote, the PDF and the Excel file.",
+      "Sales quotes on the spot. Try it: switch to <b>every weekday</b> and see the discount kick in.")
